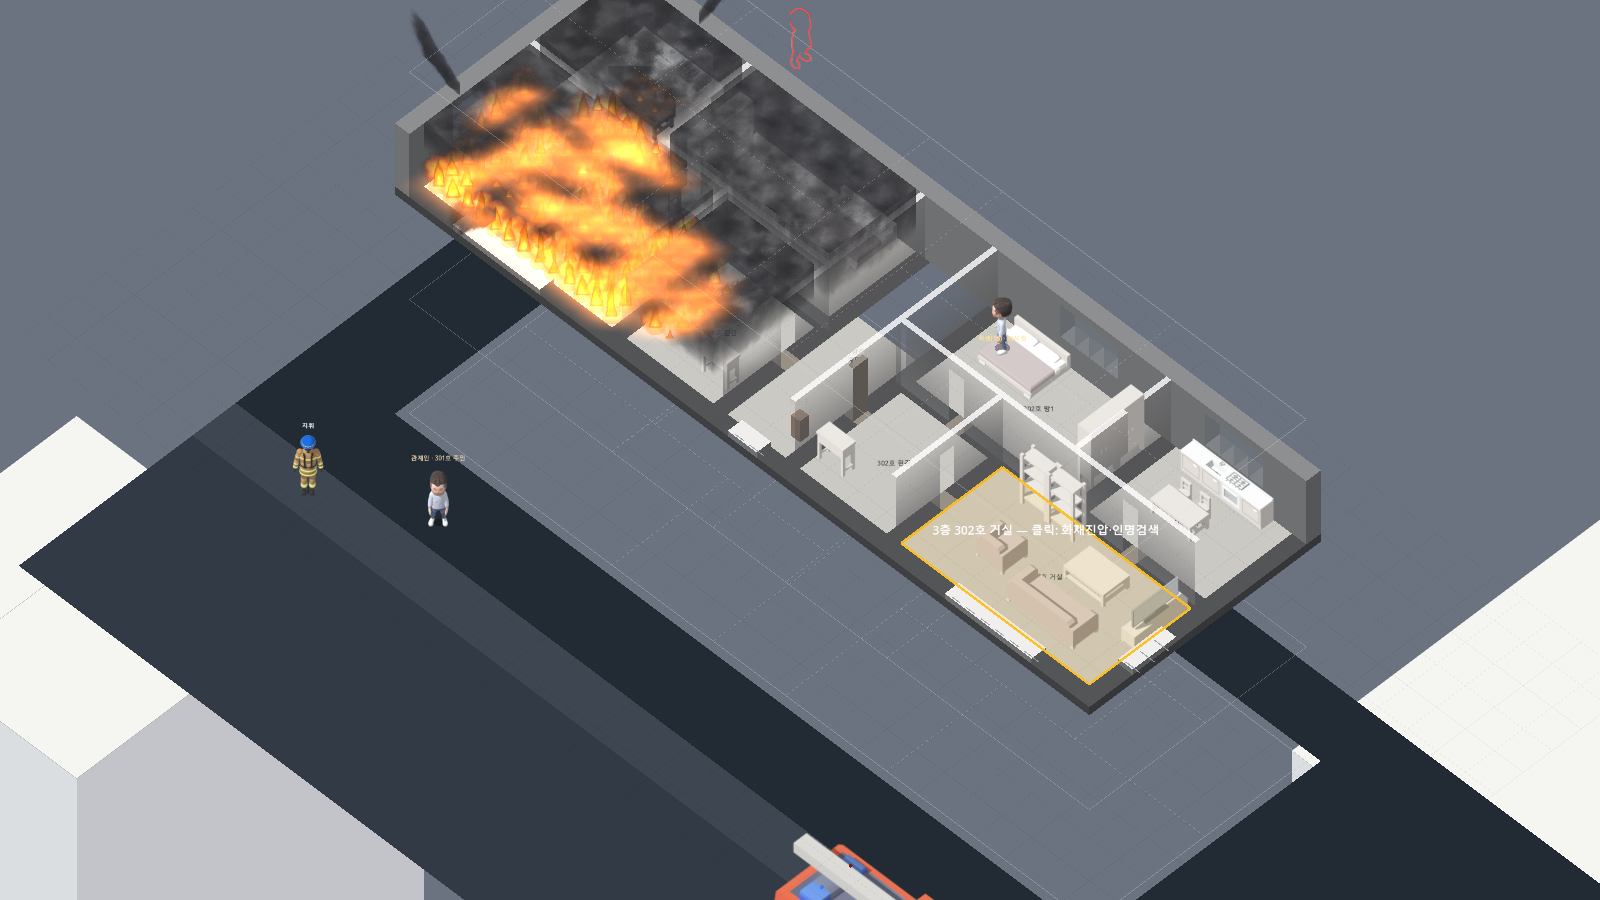
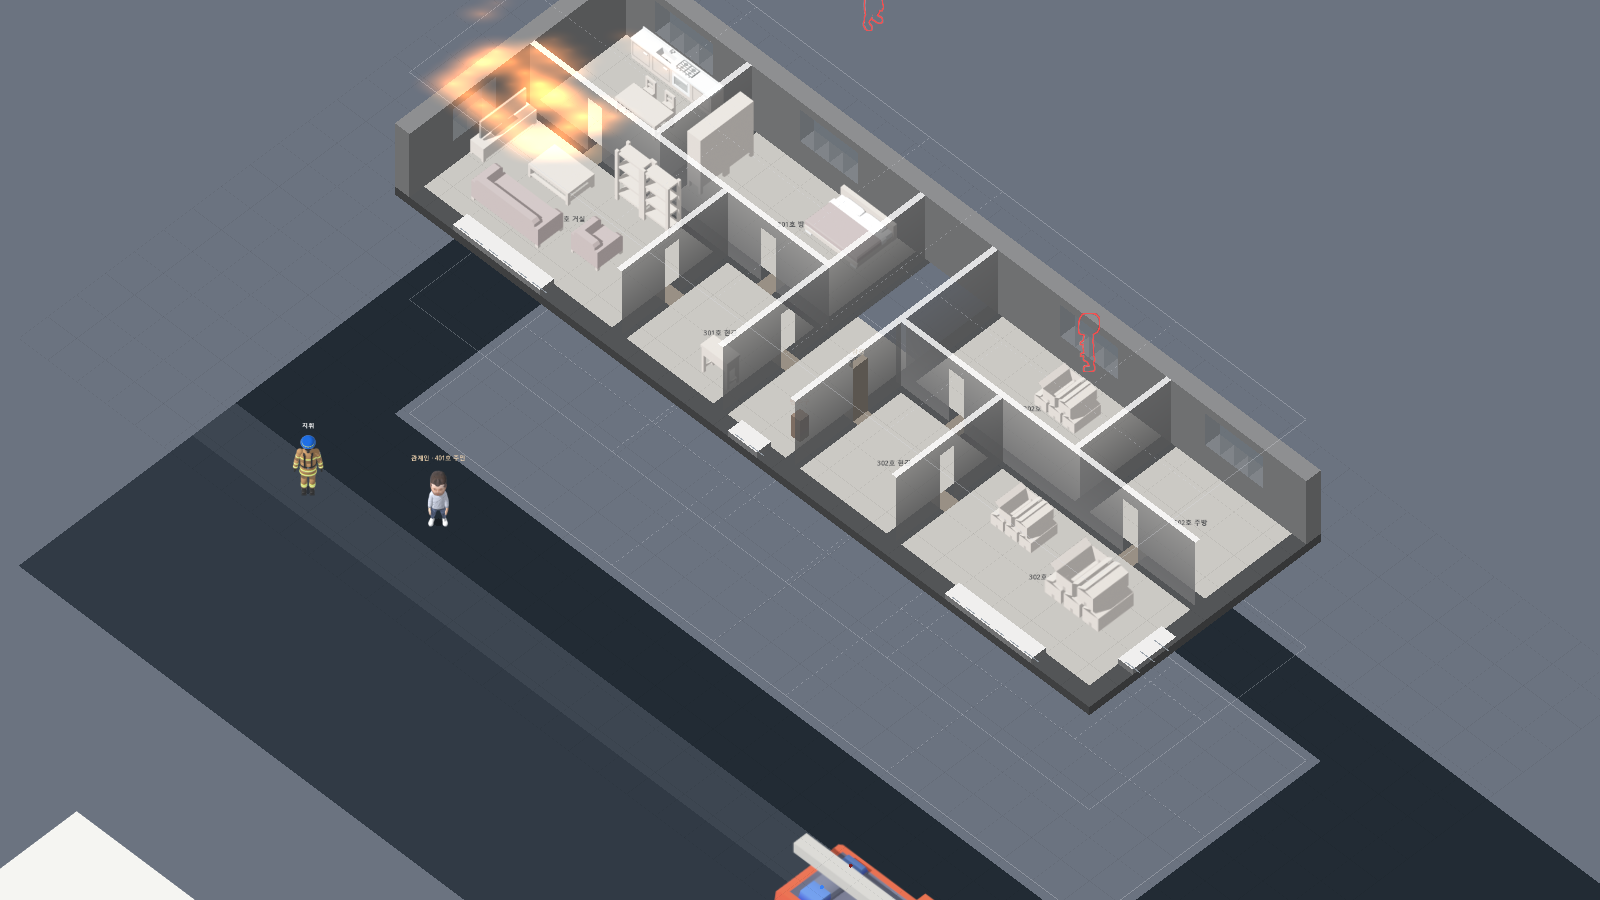
F04: 실내 벽 진하게 (0.7→0.95, 위 0.15→0.6) — 입체 벽으로 보이게

diff --git a/docs/decisions.md b/docs/decisions.md
@@ -119,3 +119,4 @@
 | 2026-11-12 | F01 | 다른 층 사람 표시 | 다른 층 대원·발견한 요구조자는 테두리 없이 노랑·빨강 한 색 흐린 덩어리(45%) + 머리 위 ▲▼층 표(조마다 하나, 요구조자마다 하나). 같은 층에서 연기·건물에 가려진 사람은 원래 색 25% + 얇은 실선 테두리 그대로 | 사용자 결정 — 둘이 같은 그림이라 헷갈림. 점선(제안)·점선+층 표(추천) 대신 흐린 덩어리+층 표를 고름 (XCOM 다른 높이 표시) |
 | 2026-11-12 | F01 | 다른 층 사람 표시 (고침) | 다른 층 대원·발견한 요구조자는 얇은 테두리(노랑·빨강)만, 안쪽은 완전 투명, 층 표 없음 (ghost_other_fill 0). 같은 층에서 연기에 가려진 사람은 원래 색 25% + 테두리 — 안쪽이 비었는지로 구분 | 사용자 결정 — 한 색 덩어리·층 표는 오히려 복잡함 |
 | 2026-11-12 | F01 | 다른 층은 평면도 선만 | 다른 층(바로 위·아래, 먼 아래층 모두)은 면 칠 없이 그 층 바닥 높이의 평면도 선만: 바깥벽(건물 윤곽) 실선, 확인된 실내 벽 점선, 진하기 0.3. 바닥 8% 칠·벽 면·먼 아래층 외관 덩어리는 지움 | 사용자 결정(항상 선만 — 추천) — 화재 시 지금 층 연기와 다른 층 면 칠이 겹쳐 진해져 구조가 안 보였음. 연기 찰 때만 바꾸면 깜빡여 헷갈림 |
+| 2026-11-12 | F04 | 실내 벽 진하기 | 바닥 쪽 0.7 → 0.95, 천장 쪽 0.15 → 0.6 | 사용자 지적 — 벽이 너무 투명하고 바닥과 색이 비슷해 입체 벽이 아니라 바닥 무늬처럼 보였음. 대상 앞 벽 옅게(3단계)가 있어 진하게 해도 대원·요구조자·불이 가려지지 않음 |

diff --git a/docs/progress.md b/docs/progress.md
@@ -45,3 +45,4 @@
 | 2026-11-12 | F01 다른 층 사람 테두리만 | shaders/ghost_outline(덩어리 모드 지움), scripts/ui/building/floor_layer(층 표 지움)·view_params, data/ui/view_params(ghost_other_fill, ghost_flat_alpha 지움), tests/test_cutaway | 다음: 튜토리얼 단계 정비 |
 | 2026-11-12 | F01 테두리 사람 자세 | scripts/ui/building/floor_layer(_unit_pose·_victim_pose로 실제 그림과 테두리가 같은 동작·방향·장, 다른 층 테두리는 매 프레임 다시 그림) | 고친 결함: 다른 층 테두리가 방향 고정·걷기/서기만·틱마다(초당 5번) 끊김. 헬멧 색은 테두리에 넘기지 않음(안쪽 투명이라 안 보임) |
 | 2026-11-12 | F01 다른 층 평면도 선만 | scripts/ui/building/floor_layer(_draw_adjacent 선만, _draw_far_block 지움)·view_params, data/ui/view_params(ghost_line_alpha 0.3·ghost_dash_px, adjacent_alpha·ghost_inner_wall_m 지움), tests(test_cutaway, _shot_house tutorial 인자) | 다음: 튜토리얼 단계 정비 |
+| 2026-11-12 | F04 실내 벽 진하게 | data/ui/view_params(inner_wall_alpha_bottom 0.95·top 0.6), scripts/ui/building/view_params | 다음: 튜토리얼 단계 정비 |
